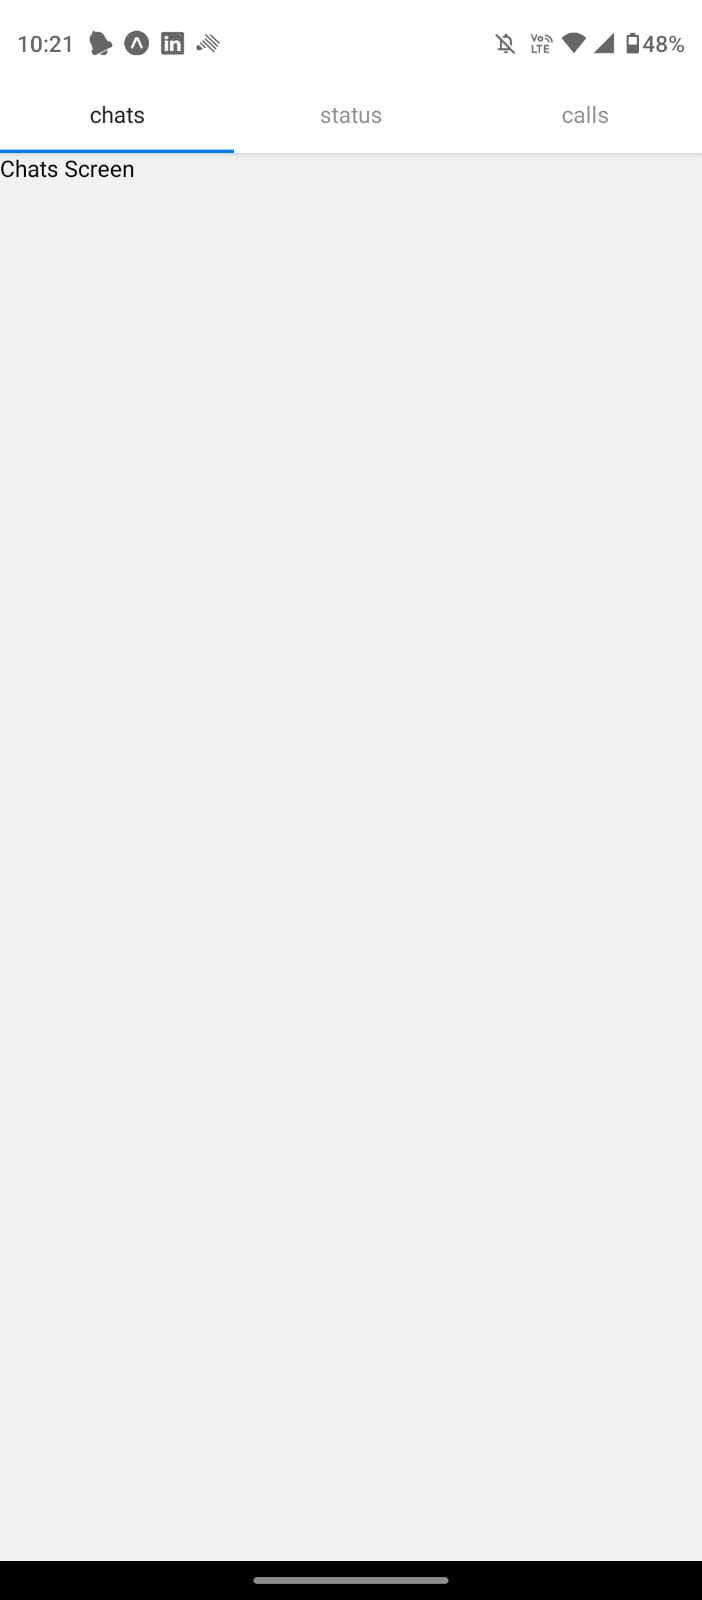
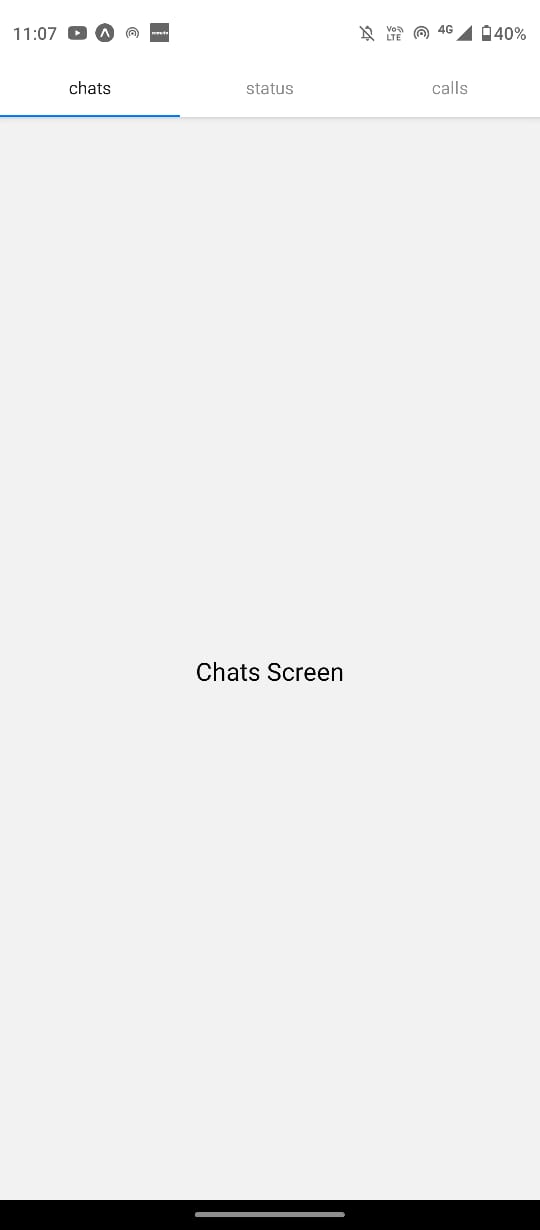
getting images from gallery component has been added

diff --git a/presentation/screens.js b/presentation/screens.js
@@ -1,5 +1,5 @@
 import { useNavigation } from "@react-navigation/native";
-import { Text, View } from "react-native";
+import { StyleSheet, Text, View } from "react-native";
 import { Button } from "react-native-paper";
 
 const Chats = () => {
@@ -8,8 +8,7 @@ const Chats = () => {
     navigation.navigate("newScreen");
   };
   return (
-    <View>
-      <Text>Chats Screen</Text>
+    <View style={styles.container}>
       <View
         style={{
           display: "flex",
@@ -28,6 +27,7 @@ const Chats = () => {
         >
           <Text style={{ color: "white" }}>New Screen</Text>
         </Button>
+        <Text style={{ marginTop: 20, fontSize: 20 }}>Chats Screen</Text>
       </View>
     </View>
   );
@@ -35,26 +35,35 @@ const Chats = () => {
 
 const Status = () => {
   return (
-    <View>
-      <Text>status Screen</Text>
+    <View style={styles.container}>
+      <Text style={{ marginTop: 20, fontSize: 20 }}>status Screen</Text>
     </View>
   );
 };
 
 const Calls = () => {
   return (
-    <View>
-      <Text>calls Screen</Text>
+    <View style={styles.container}>
+      <Text style={{ marginTop: 20, fontSize: 20 }}>calls Screen</Text>
     </View>
   );
 };
 
 const NewScreen = () => {
   return (
-    <View>
-      <Text>New Screen</Text>
+    <View style={styles.container}>
+      <Text style={{ marginTop: 20, fontSize: 20 }}>New Screen</Text>
     </View>
   );
 };
 
 export { Chats, Status, Calls, NewScreen };
+
+const styles = StyleSheet.create({
+  container: {
+    display: "flex",
+    justifyContent: "center",
+    alignItems: "center",
+    flex: 1,
+  },
+});

diff --git a/App.js b/App.js
@@ -29,8 +29,8 @@ import { SafeAreaView } from "react-native-safe-area-context";
 // import MainPage from "./task/MainPage";
 import BottomBar from "./task/MainPage";
 import DNav from "./components/DrawerNavigation";
-import PresTopBar from "./presentation/topBar";
-import ChatStack from "./presentation/topBar";
+import ChatStack from "./presentation/ChatStack";
+import ImagePicker from "./Image class/images";
 export default function App() {
   const [carName, setCarName] = useState("Curvv");
   const [select, setSelected] = useState("Curvv");
@@ -104,7 +104,8 @@ export default function App() {
       {/* <Navigation /> */}
       <SafeAreaView style={{ flex: 1 }}>
         {/* <BottomBar /> */}
-        <ChatStack />
+        {/* <ChatStack /> */}
+        <ImagePicker />
       </SafeAreaView>
     </>
   );

diff --git a/Image class/images.js b/Image class/images.js
@@ -1,0 +1,28 @@
+import { View, StyleSheet, Text } from "react-native";
+import * as Picker from "expo-image-picker";
+import { Button } from "react-native-paper";
+
+const ImagePicker = () => {
+  const pickImage = async () => {
+    const result = await Picker.getMediaLibraryPermissionsAsync();
+    console.log(result);
+  };
+
+  return (
+    <View style={styles.container}>
+      <Button onPress={pickImage} mode="contained">
+        Pick an image
+      </Button>
+    </View>
+  );
+};
+
+const styles = StyleSheet.create({
+  container: {
+    flex: 1,
+    justifyContent: "center",
+    alignItems: "center",
+  },
+});
+
+export default ImagePicker;
